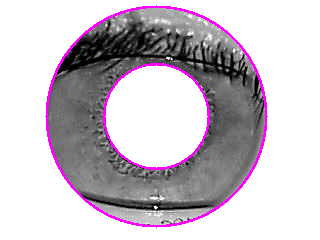
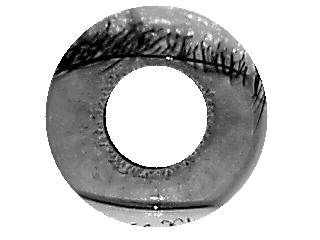
crop + normalize

diff --git a/iris_recognition.py b/iris_recognition.py
@@ -1,9 +1,11 @@
-import numpy
 import numpy as np
 import cv2 as cv
 
+global pupil_1
+global pupil_2
 
-class IrisRecognition:
+
+class IrisDetection:
     def __init__(self, img_path1, img_path2):
         self.path_1 = img_path1
         self.img_loaded_1 = None
@@ -23,8 +25,8 @@ class IrisRecognition:
         self.mask_2 = None
         self.mask_3 = None
         self.mask_4 = None
-        self.decoupe_1 = None
-        self.decoupe_2 = None
+        self.iris_1 = None
+        self.iris_2 = None
 
     def start(self):
         self.read_img()
@@ -34,49 +36,63 @@ class IrisRecognition:
         self.hough_transform_pupil()
         self.detect_iris()
         self.sub_mask()
-        self.eyelid_detection()
+        # self.write_txt()
+        return self.iris_1, self.iris_2
 
     def read_img(self):
         self.img_loaded_1 = cv.imread(self.path_1)
         self.img_loaded_2 = cv.imread(self.path_2)
-        numpy_horizontal_concat = np.concatenate((self.img_loaded_1, self.img_loaded_2), axis=1)
+        numpy_horizontal_concat = np.concatenate(
+            (self.img_loaded_1, self.img_loaded_2), axis=1)
+        """
         cv.imshow('Images originales', numpy_horizontal_concat)
         cv.waitKey(0)
         cv.destroyAllWindows()
         cv.waitKey(1)
+        """
 
     def img_2_gray(self):
         self.img_gray_1 = cv.cvtColor(self.img_loaded_1, cv.COLOR_BGR2GRAY)
         self.img_gray_2 = cv.cvtColor(self.img_loaded_2, cv.COLOR_BGR2GRAY)
-        numpy_horizontal_concat = np.concatenate((self.img_gray_1, self.img_gray_2), axis=1)
+        numpy_horizontal_concat = np.concatenate(
+            (self.img_gray_1, self.img_gray_2), axis=1)
+        """
         cv.imshow('Images Gris', numpy_horizontal_concat)
         cv.waitKey(0)
         cv.destroyAllWindows()
         cv.waitKey(1)
+        """
 
     def gaussian_filter(self):
         self.gaussian_1 = cv.GaussianBlur(self.img_gray_1, (9, 9), 0)
         self.gaussian_2 = cv.GaussianBlur(self.img_gray_2, (9, 9), 0)
-        numpy_horizontal_concat = np.concatenate((self.gaussian_1, self.gaussian_2), axis=1)
+        numpy_horizontal_concat = np.concatenate(
+            (self.gaussian_1, self.gaussian_2), axis=1)
+        """
         cv.imshow('Images Gauss', numpy_horizontal_concat)
         cv.waitKey(0)
         cv.destroyAllWindows()
         cv.waitKey(1)
-
+        """
 
     def canny_img(self):
-        self.img_edge_1 = cv.Canny(image=self.gaussian_1, threshold1=50, threshold2=100)
-        self.img_edge_2 = cv.Canny(image=self.gaussian_2, threshold1=50, threshold2=100)
-        numpy_horizontal_concat = np.concatenate((self.img_edge_1, self.img_edge_2), axis=1)
+        self.img_edge_1 = cv.Canny(
+            image=self.gaussian_1, threshold1=50, threshold2=100)
+        self.img_edge_2 = cv.Canny(
+            image=self.gaussian_2, threshold1=50, threshold2=100)
+        numpy_horizontal_concat = np.concatenate(
+            (self.img_edge_1, self.img_edge_2), axis=1)
+        """
         cv.imshow('Images Canny', numpy_horizontal_concat)
         cv.waitKey(0)
         cv.destroyAllWindows()
         cv.waitKey(1)
-
+        """
 
     def hough_transform_pupil(self):
         # Les pixels au dessus de 150 deviennent blancs
-        ret, self.binary_1 = cv.threshold(self.img_edge_1, 150, 255, cv.THRESH_BINARY)
+        ret, self.binary_1 = cv.threshold(
+            self.img_edge_1, 150, 255, cv.THRESH_BINARY)
         # On utilise le contour TREE afin de lister tous les contours avec un ordre hierarchique
         # contours, hierarchy = cv.findContours(self.binary_1, cv.RETR_TREE, cv.CHAIN_APPROX_SIMPLE)
         # Possible de dessiner les contours avec cv.drawContours(img, contours, -1, (0,255,0), 3)
@@ -91,15 +107,16 @@ class IrisRecognition:
                 center = (i[0], i[1])
                 # circle outline
                 radius = i[2]
-                self.mask_1 = numpy.zeros_like(self.img_loaded_1)
-                self.mask_1 = cv.circle(self.mask_1, center, radius, (255, 255, 255), -1)
-                cv.circle(self.img_loaded_1, center, radius, (255, 0, 255), 3)
+                self.mask_1 = np.zeros_like(self.img_loaded_1)
+                self.mask_1 = cv.circle(
+                    self.mask_1, center, radius, (255, 255, 255), -1)
+                #cv.circle(self.img_loaded_1, center, radius, (255, 0, 255), 3)
                 self.pupil_1 = (center[0], center[1], radius)
-
 
         # Image 2
 
-        ret, self.binary_2 = cv.threshold(self.img_edge_2, 150, 255, cv.THRESH_BINARY)
+        ret, self.binary_2 = cv.threshold(
+            self.img_edge_2, 150, 255, cv.THRESH_BINARY)
 
         circles = cv.HoughCircles(self.binary_2, cv.HOUGH_GRADIENT, 1, self.gaussian_2.shape[0],
                                   param1=100, param2=30,
@@ -111,16 +128,20 @@ class IrisRecognition:
                 center = (i[0], i[1])
                 # circle outline
                 radius = i[2]
-                self.mask_3 = numpy.zeros_like(self.img_loaded_1)
-                self.mask_3 = cv.circle(self.mask_3, center, radius, (255, 255, 255), -1)
-                cv.circle(self.img_loaded_2, center, radius, (255, 0, 255), 3)
+                self.mask_3 = np.zeros_like(self.img_loaded_1)
+                self.mask_3 = cv.circle(
+                    self.mask_3, center, radius, (255, 255, 255), -1)
+                #cv.circle(self.img_loaded_2, center, radius, (255, 0, 255), 3)
                 self.pupil_2 = (center[0], center[1], radius)
 
-        numpy_horizontal_concat = np.concatenate((self.img_loaded_1, self.img_loaded_2), axis=1)
+        numpy_horizontal_concat = np.concatenate(
+            (self.img_loaded_1, self.img_loaded_2), axis=1)
+        """
         cv.imshow('Images Pupille', numpy_horizontal_concat)
         cv.waitKey(0)
         cv.destroyAllWindows()
         cv.waitKey(1)
+        """
 
     def detect_iris(self):
         # La distance minimum est donnée par le double du rayon de la pupille ( donc son diamètre ) afin d'éviter d'autres cercles
@@ -133,9 +154,11 @@ class IrisRecognition:
                 center = (self.pupil_1[0], self.pupil_1[1])
                 radius = i[2]
                 # Retourne un nouvel array rempli de zero
-                self.mask_2 = numpy.zeros_like(self.img_loaded_1)
-                self.mask_2 = cv.circle(self.mask_2, center, radius, (255, 255, 255), -1)
-                cv.circle(self.img_loaded_1, center, radius, (255, 0, 255), 3)
+                self.mask_2 = np.zeros_like(self.img_loaded_1)
+                self.mask_2 = cv.circle(
+                    self.mask_2, center, radius, (255, 255, 255), -1)
+                #cv.circle(self.img_loaded_1, center, radius, (255, 0, 255), 3)
+                self.iris_1 = (center[0], center[1], radius)
 
         # Image 2
 
@@ -148,43 +171,149 @@ class IrisRecognition:
                 center = (self.pupil_2[0], self.pupil_2[1])
                 radius = i[2]
                 # Retourne un nouvel array rempli de zero
-                self.mask_4 = numpy.zeros_like(self.img_loaded_2)
-                self.mask_4 = cv.circle(self.mask_4, center, radius, (255, 255, 255), -1)
-                cv.circle(self.img_loaded_2, center, radius, (255, 0, 255), 3)
+                self.mask_4 = np.zeros_like(self.img_loaded_2)
+                self.mask_4 = cv.circle(
+                    self.mask_4, center, radius, (255, 255, 255), -1)
+                #cv.circle(self.img_loaded_2, center, radius, (255, 0, 255), 3)
+                self.iris_2 = (center[0], center[1], radius)
 
-        numpy_horizontal_concat = np.concatenate((self.img_loaded_1, self.img_loaded_2), axis=1)
+        numpy_horizontal_concat = np.concatenate(
+            (self.img_loaded_1, self.img_loaded_2), axis=1)
+        """
         cv.imshow('Images Iris', numpy_horizontal_concat)
         cv.waitKey(0)
         cv.destroyAllWindows()
         cv.waitKey(1)
+        """
 
     def sub_mask(self):
         mask_final_1 = cv.subtract(self.mask_2, self.mask_1)
         result1 = cv.cvtColor(self.img_loaded_1, cv.COLOR_BGR2BGRA)
         result1[:, :, 3] = mask_final_1[:, :, 0]
         cv.imwrite("mask_1.png", result1)
-        self.decoupe_1 = cv.imread("mask_1.png")
 
         # Image 2
-
         mask_final_2 = cv.subtract(self.mask_4, self.mask_3)
         result2 = cv.cvtColor(self.img_loaded_2, cv.COLOR_BGR2BGRA)
         result2[:, :, 3] = mask_final_2[:, :, 0]
         cv.imwrite("mask_2.png", result2)
-        self.decoupe_2 = cv.imread("mask_2.png")
 
-    # TODO
-    def eyelid_detection(self):
-        self.img_loaded_1 = cv.imread('mask_1.png')
-        self.img_loaded_2 = cv.imread('mask_2.png')
-        self.img_gray_1 = cv.cvtColor(self.img_loaded_1, cv.COLOR_BGR2GRAY)
-        self.img_gray_2 = cv.cvtColor(self.img_loaded_2, cv.COLOR_BGR2GRAY)
-        self.img_edge_1 = cv.Canny(image=self.img_gray_1, threshold1=50, threshold2=100)
-        self.img_edge_2 = cv.Canny(image=self.img_gray_2, threshold1=50, threshold2=100)
-
-        #lines = cv.HoughLines(self., 1, np.pi / 180, 150, None, 0, 0)
+    def write_txt(self):
+        print(self.iris_1, self.iris_2)
+        f = open("iris.txt", "w")
+        f.write(str(self.iris_1))
+        f.close()
+        f = open("iris.txt", "a")
+        f.write(str(self.iris_2))
+        f.close()
 
 
+# Pour la création d'un masque des paupières voir https://books.google.be/books?id=SI29AgAAQBAJ&pg=PA149&lpg=PA149&dq=iris+recon+matlab&source=bl&ots=Ae633czDjg&sig=ACfU3U3wu6AIhpf8zz56CKe0WL6yP-YAug&hl=fr&sa=X&ved=2ahUKEwjQucmpyrT0AhXP3KQKHS_OBOEQ6AF6BAgUEAM#v=onepage&q=iris%20recon%20matlab&f=false
+class IrisRecognition():
+    def __init__(self, mask1, mask2, iris_1, iris_2):
+        self.mask_1 = cv.imread(mask1, cv.IMREAD_UNCHANGED)
+        self.mask_2 = cv.imread(mask2, cv.IMREAD_UNCHANGED)
+        self.iris_1 = iris_1
+        self.iris_2 = iris_2
+
+    def start(self):
+        self.transparency()
+        self.crop()
+        self.normalisation()
+
+    def crop(self):
+        # (1) Convert to gray, and threshold
+        gray = cv.cvtColor(self.mask_1, cv.COLOR_BGR2GRAY)
+        th, threshed = cv.threshold(gray, 240, 255, cv.THRESH_BINARY_INV)
+
+        # (2) Morph-op to remove noise
+        kernel = cv.getStructuringElement(cv.MORPH_ELLIPSE, (11, 11))
+        morphed = cv.morphologyEx(threshed, cv.MORPH_CLOSE, kernel)
+
+        # (3) Find the max-area contour
+        cnts = cv.findContours(morphed, cv.RETR_EXTERNAL,
+                               cv.CHAIN_APPROX_SIMPLE)[-2]
+        cnt = sorted(cnts, key=cv.contourArea)[-1]
+
+        # (4) Crop and save it
+        x, y, w, h = cv.boundingRect(cnt)
+        dst = self.mask_1[y:y+h, x:x+w]
+        cv.imwrite("crop_1.png", dst)
+
+        # (1) Convert to gray, and threshold
+        gray = cv.cvtColor(self.mask_2, cv.COLOR_BGR2GRAY)
+        th, threshed = cv.threshold(gray, 240, 255, cv.THRESH_BINARY_INV)
+
+        # (2) Morph-op to remove noise
+        kernel = cv.getStructuringElement(cv.MORPH_ELLIPSE, (11, 11))
+        morphed = cv.morphologyEx(threshed, cv.MORPH_CLOSE, kernel)
+
+        # (3) Find the max-area contour
+        cnts = cv.findContours(morphed, cv.RETR_EXTERNAL,
+                               cv.CHAIN_APPROX_SIMPLE)[-2]
+        cnt = sorted(cnts, key=cv.contourArea)[-1]
+
+        # (4) Crop and save it
+        x, y, w, h = cv.boundingRect(cnt)
+        dst = self.mask_2[y:y+h, x:x+w]
+        cv.imwrite("crop_2.png", dst)
+
+    def transparency(self):
+        trans_mask = self.mask_1[:, :, 3] == 0
+        self.mask_1[trans_mask] = [255, 255, 255, 0]
+        #cv.imwrite("test alpha.png", self.mask_1)
+
+        trans_mask = self.mask_2[:, :, 3] == 0
+        self.mask_2[trans_mask] = [255, 255, 255, 0]
+        #cv.imwrite("test alpha2.png", self.mask_2)
+
+    def normalisation(self):
+        # Do the polar rotation along 1024 angular steps with a radius of 256 pixels.
+        img_crop1 = cv.imread('crop_1.png')
+        polar_img = cv.warpPolar(
+            img_crop1, (256, 1024), (self.iris_1[0], self.iris_1[1]), self.iris_1[2] * 2, cv.WARP_POLAR_LINEAR)
+        # Rotate it sideways to be more visually pleasing
+        polar_img = cv.rotate(polar_img, cv.ROTATE_90_COUNTERCLOCKWISE)
+
+        # crop image
+        polar_img = polar_img[int(polar_img.shape[0] / 2)
+                                  : polar_img.shape[0], 0: polar_img.shape[1]]
+        polar_img = cv.cvtColor(polar_img, cv.COLOR_BGR2GRAY)
+
+        _, threshold = cv.threshold(polar_img, 100, 255, cv.THRESH_BINARY)
+        cv.imwrite("foreground.png", threshold)
+        cv.imshow('threshold', threshold)
+        cv.waitKey(0)
+        cv.destroyAllWindows()
+        cv.waitKey(1)
+
+        # Do the polar rotation along 1024 angular steps with a radius of 256 pixels.
+        img_crop2 = cv.imread('crop_2.png')
+        polar_img2 = cv.warpPolar(
+            img_crop2, (256, 1024), (self.iris_2[0], self.iris_2[1]), self.iris_2[2] * 2, cv.WARP_POLAR_LINEAR)
+        # Rotate it sideways to be more visually pleasing
+        polar_img2 = cv.rotate(polar_img2, cv.ROTATE_90_COUNTERCLOCKWISE)
+
+        # crop image
+        polar_img2 = polar_img2[int(
+            polar_img2.shape[0] / 2): polar_img2.shape[0], 0: polar_img2.shape[1]]
+        polar_img2 = cv.cvtColor(polar_img2, cv.COLOR_BGR2GRAY)
+
+        _, threshold2 = cv.threshold(polar_img2, 100, 255, cv.THRESH_BINARY)
+        cv.imwrite("foreground2.png", threshold2)
+        cv.imshow('threshold 2', threshold2)
+        cv.waitKey(0)
+        cv.destroyAllWindows()
+        cv.waitKey(1)
+
+        """
+        bbox = cv.boundingRect(threshold)
+        x, y, w, h = bbox
+        foreground = polar_img
+        cv.imwrite("foreground.png", foreground)
+        """
 
 
-IrisRecognition('database/002/01.bmp', 'database/001/01.bmp').start()
+if __name__ == "__main__":
+    test = IrisDetection('database/002/01.bmp', 'database/001/01.bmp').start()
+    IrisRecognition('mask_1.png', 'mask_2.png', test[0], test[1]).start()
